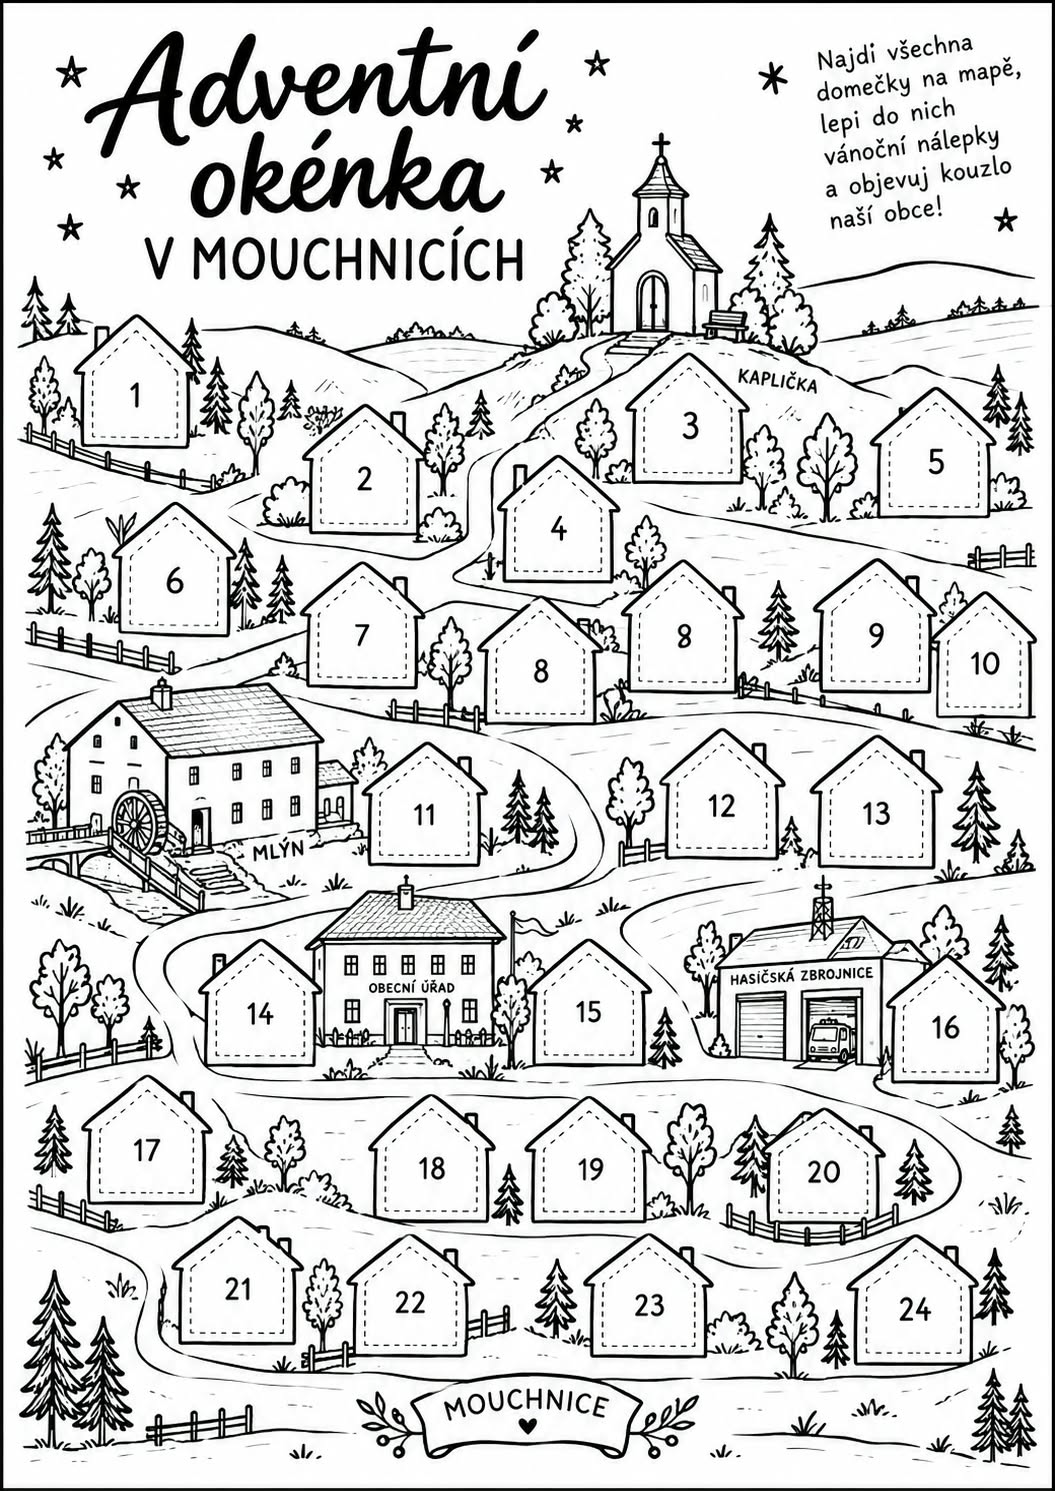
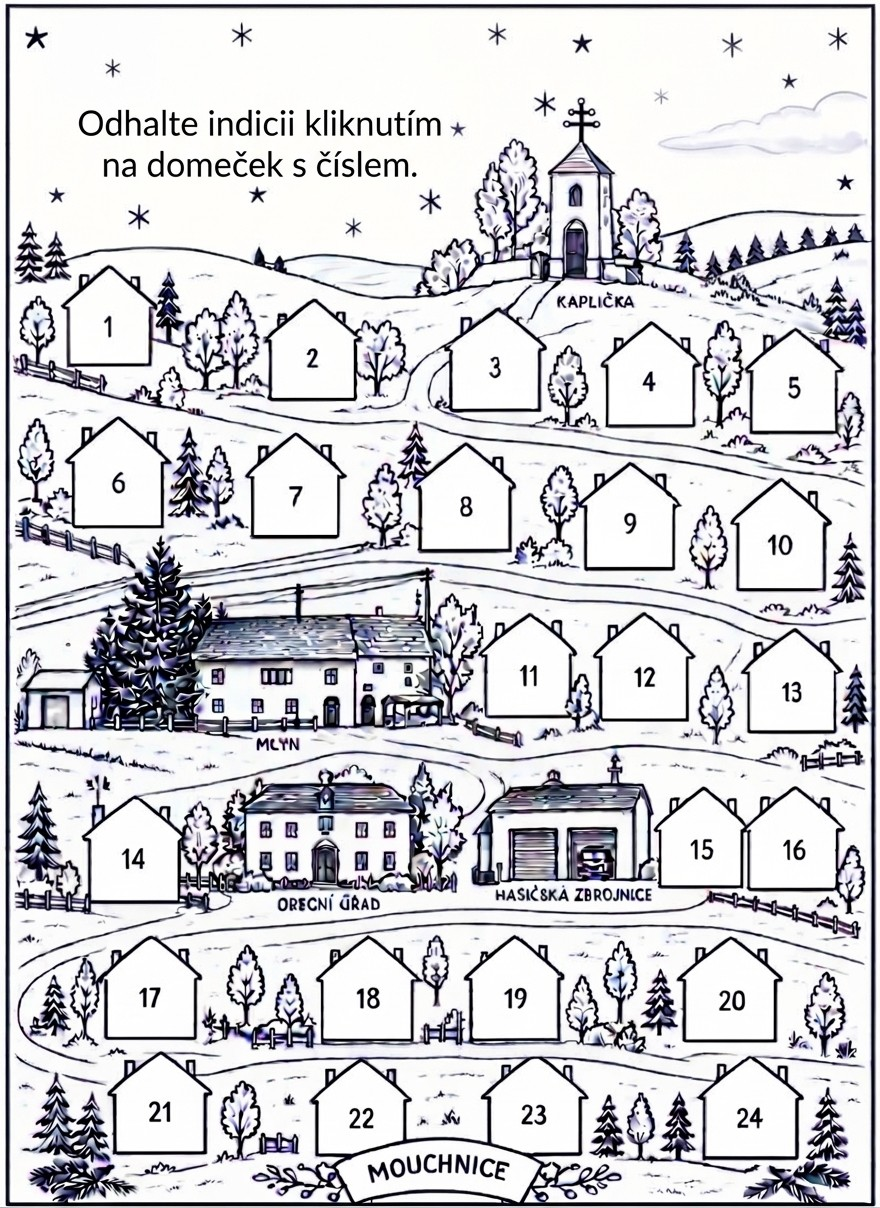
Nový obrázek mapy s očíslovanými domečky a klikací plochy nad nimi

diff --git a/index.html b/index.html
@@ -63,10 +63,7 @@
   }
 
   main {
-    min-height: 100vh;
-    min-height: 100dvh;
     display: flex;
-    align-items: center;
     justify-content: center;
   }
 
@@ -74,9 +71,9 @@
   .mapa {
     position: relative;
     /* obrázek vyplní celou obrazovku (vejde se celý, bez posouvání) */
-    width: min(100vw, 100vh * 1055 / 1491);
-    width: min(100vw, 100dvh * 1055 / 1491);
-    aspect-ratio: 1055 / 1491;
+    width: min(100vw, 100vh * 880 / 1208);
+    width: min(100vw, 100dvh * 880 / 1208);
+    aspect-ratio: 880 / 1208;
     background: #fff;
     overflow: hidden;
     container-type: inline-size; /* cqw = % šířky mapy, ať domečky škálují s obrázkem */
@@ -88,80 +85,25 @@
     user-select: none;
     -webkit-user-drag: none;
   }
-  /* Bílá plocha přes text v pravém horním rohu obrázku */
-  .zakryt {
-    position: absolute;
-    left: 76.3%; top: 2.3%; width: 23.2%; height: 13.8%;
-    background: #fff;
-    clip-path: polygon(0 0, 100% 0, 100% 78%, 75% 78%, 75% 100%, 0 100%);
-  }
-  /* Bílá plocha přes druhou (duplicitní) osmičku v obrázku */
-  .zakryt.dum8 {
-    left: 58.6%; top: 37.1%; width: 12.2%; height: 9.7%;
-    clip-path: polygon(50% 0, 73% 19%, 72% 3%, 93% 3%, 93% 36%, 100% 42%, 100% 100%, 0 100%, 0 42%);
-  }
-
-  .mapa .stromy {
-    position: absolute; inset: 0;
-    width: 100%; height: 100%;
-    pointer-events: none;
-    fill: none;
-    stroke: var(--ink);
-    stroke-width: 2.6;
-    stroke-linecap: round;
-    stroke-linejoin: round;
-  }
-  .stromy .b { fill: #fff; }
-  .stromy .tenke { stroke-width: 1.5; }
-
-  /* HTML domeček položený přes ten nakreslený v obrázku */
+  /* Průhledná klikací plocha ve tvaru domečku nad domečkem v obrázku */
   .okenko {
     position: absolute;
     border: 0;
     padding: 0;
-    background: none;
+    background: transparent;
+    mix-blend-mode: multiply; /* obarví bílou plochu, čáry obrázku zůstanou */
+    clip-path: polygon(50% 0, 100% 46%, 100% 100%, 0 100%, 0 46%);
     cursor: pointer;
-    transition: transform .2s;
+    transition: background-color .2s, transform .2s;
   }
-  .okenko svg {
-    position: absolute; inset: 0;
-    width: 100%; height: 100%;
-    overflow: visible;
-  }
-  .okenko .dum, .okenko .komin {
-    fill: #fff;
-    stroke: var(--ink);
-    stroke-width: .3cqw;
-    stroke-linejoin: round;
-    vector-effect: non-scaling-stroke;
-    transition: fill .2s;
-  }
-  .okenko .ram {
-    fill: none;
-    stroke: var(--ink);
-    stroke-width: .12cqw;
-    stroke-dasharray: .45cqw .35cqw;
-    vector-effect: non-scaling-stroke;
-  }
-  .okenko .cislo {
-    position: absolute;
-    left: 0; right: 0; top: 42%; bottom: 6%;
-    display: grid;
-    place-items: center;
-    font-size: 3.2cqw;
-    line-height: 1;
-    color: var(--ink);
-  }
-  .okenko:hover, .okenko:focus-visible { transform: scale(1.04); outline: none; }
-  .okenko:hover .dum, .okenko:focus-visible .dum { fill: #f8e7b5; }
-  .okenko.otevreno .dum { fill: #fbe39a; } /* otevřené okénko „svítí" */
+  .okenko:hover, .okenko:focus-visible { background: #f8e7b5; transform: scale(1.04); outline: none; }
+  .okenko.otevreno { background: #fbe39a; } /* otevřené okénko „svítí" */
   .okenko.zamceno { cursor: not-allowed; }
-  .okenko.zamceno:hover { transform: none; }
-  .okenko.zamceno:hover .dum { fill: #f0f0f0; }
-  .okenko.dnes .dum { animation: pulz 1.8s ease-in-out infinite; }
+  .okenko.zamceno:hover { background: #ececec; transform: none; }
+  .okenko.dnes { animation: pulz 1.8s ease-in-out infinite; }
   @keyframes pulz {
-    0%, 100% { fill: #fff; }
-    50%      { fill: #f3c2bd; }
+    0%, 100% { background: transparent; }
+    50%      { background: #f3c2bd; }
   }
   /* „Nálepka" na otevřeném okénku */
   .okenko .nalepka {
@@ -274,27 +216,7 @@
 </header>
 <main>
   <div class="mapa" id="mapa">
-    <img src="img/mapa.jpg" alt="Mapa obce Mouchnice s 24 adventními domečky" width="1055" height="1491">
-    <div class="zakryt" aria-hidden="true"></div>
-    <div class="zakryt dum8" aria-hidden="true"></div>
-    <!-- stromy na místě zakryté osmičky (souřadnice obrázku) -->
-    <svg class="stromy" viewBox="0 0 1055 1491" aria-hidden="true">
-      <defs>
-        <g id="smrk">
-          <path class="b" d="M0 -66 L-7 -52 L-3 -52 L-11 -39 L-5 -39 L-14 -25 L-7 -25 L-18 -10 L18 -10 L7 -25 L14 -25 L5 -39 L11 -39 L3 -52 L7 -52 Z"/>
-          <path class="tenke" d="M0 -10 V0 M0 -58 V-10 M0 -46 l-4 4 M0 -46 l4 4 M0 -33 l-6 5 M0 -33 l6 5 M0 -20 l-8 6 M0 -20 l8 6"/>
-        </g>
-        <g id="strom">
-          <path d="M-2.5 0 V-22 M2.5 0 V-22"/>
-          <path class="b" d="M0 -78 Q6 -82 9 -74 Q16 -72 15 -62 Q21 -55 17 -46 Q20 -36 13 -32 Q12 -22 5 -23 Q0 -17 -5 -23 Q-12 -22 -13 -32 Q-20 -36 -17 -46 Q-21 -55 -15 -62 Q-16 -72 -9 -74 Q-6 -82 0 -78Z"/>
-          <path class="tenke" d="M0 -22 V-62 M0 -34 l-7 -8 M0 -44 l6 -8 M0 -54 l-4 -6"/>
-        </g>
-      </defs>
-      <use href="#smrk" transform="translate(648 690) scale(1.6)"/>
-      <use href="#strom" transform="translate(700 694) scale(1.35)"/>
-      <use href="#smrk" transform="translate(738 688) scale(1.1)"/>
-      <path class="tenke" d="M664 696 l3 -9 M669 696 v-11 M674 696 l-2 -8 M716 698 l3 -8 M721 698 v-10"/>
-    </svg>
+    <img src="img/mapa.jpg" alt="Mapa obce Mouchnice s 24 adventními domečky" width="880" height="1208">
   </div>
 </main>
 
@@ -312,42 +234,34 @@
   // Rok, ve kterém advent probíhá (okénko N se odemkne N. prosince).
   const ROK_ADVENTU = 2026;
 
-  // Pozice domečků v obrázku mapy (px v originálu 1055×1491): [x1, y1, x2, y2]
-  const OBR_W = 1055, OBR_H = 1491;
+  // Pozice domečků v obrázku mapy (px v originálu 880×1208): [x1, y1, x2, y2]
+  const OBR_W = 880, OBR_H = 1208;
   const DOMECKY = {
-    1:  [ 75, 315, 195, 448],
-    2:  [303, 404, 425, 535],
-    3:  [627, 352, 748, 483],
-    4:  [498, 455, 618, 582],
-    5:  [872, 387, 994, 518],
-    6:  [113, 502, 235, 636],
-    7:  [302, 561, 423, 688],
-    8:  [477, 595, 604, 724],
-    9:  [815, 559, 935, 692],
-    10: [932, 591, 1035, 718],
-    11: [363, 742, 485, 866],
-    12: [659, 728, 783, 859],
-    13: [812, 735, 940, 868],
-    14: [887, 955, 1003, 1083],
-    15: [528, 939, 649, 1065],
-    16: [199, 939, 320, 1066],
-    17: [ 82, 1074, 210, 1204],
-    18: [370, 1093, 493, 1222],
-    19: [526, 1096, 649, 1222],
-    20: [762, 1107, 882, 1223],
-    21: [173, 1216, 301, 1344],
-    22: [348, 1232, 472, 1356],
-    23: [585, 1232, 711, 1357],
-    24: [848, 1234, 977, 1365],
+    1:  [ 63, 266, 154, 365],
+    2:  [266, 299, 359, 400],
+    3:  [447, 309, 544, 411],
+    4:  [602, 322, 698, 426],
+    5:  [745, 328, 842, 433],
+    6:  [ 67, 417, 167, 527],
+    7:  [247, 433, 343, 537],
+    8:  [414, 443, 514, 551],
+    9:  [579, 463, 679, 569],
+    10: [731, 479, 829, 590],
+    11: [480, 614, 592, 719],
+    12: [594, 613, 693, 720],
+    13: [743, 629, 840, 732],
+    14: [ 83, 796, 183, 902],
+    15: [655, 788, 746, 887],
+    16: [744, 787, 843, 890],
+    17: [101, 936, 199, 1039],
+    18: [317, 936, 418, 1041],
+    19: [466, 936, 562, 1040],
+    20: [680, 937, 780, 1041],
+    21: [109, 1052, 210, 1153],
+    22: [312, 1059, 409, 1156],
+    23: [484, 1056, 586, 1155],
+    24: [701, 1056, 800, 1158],
   };
-
-  // Tvar domečku v souřadnicích 0–100 (roztáhne se na rámeček z DOMECKY)
-  const DUM_SVG =
-    '<svg viewBox="0 0 100 100" preserveAspectRatio="none" aria-hidden="true">' +
-    '<polygon class="komin" points="73,20 73,5 85,5 85,30"/>' +
-    '<polygon class="dum" points="50,0 100,42 96,42 96,100 4,100 4,42 0,42"/>' +
-    '<polygon class="ram" points="50,9 88,41 88,93 12,93 12,41"/>' +
-    "</svg>";
 
   const NALEPKY = ["⭐", "🎄", "🔔", "🎁", "❄", "🕯", "🍪", "🦌", "🎅", "🌟", "🧦"];
 
@@ -402,7 +316,6 @@
     btn.style.width = ((x2 - x1) / OBR_W * 100) + "%";
     btn.style.height = ((y2 - y1) / OBR_H * 100) + "%";
     btn.setAttribute("aria-label", "Okénko " + d);
-    btn.innerHTML = DUM_SVG + '<span class="cislo">' + d + "</span>";
     if (!jeOdemceno(d)) btn.classList.add("zamceno");
     if (d === dnesDen && !otevrena.has(d)) btn.classList.add("dnes");
     btn.addEventListener("click", () => otevri(d));
